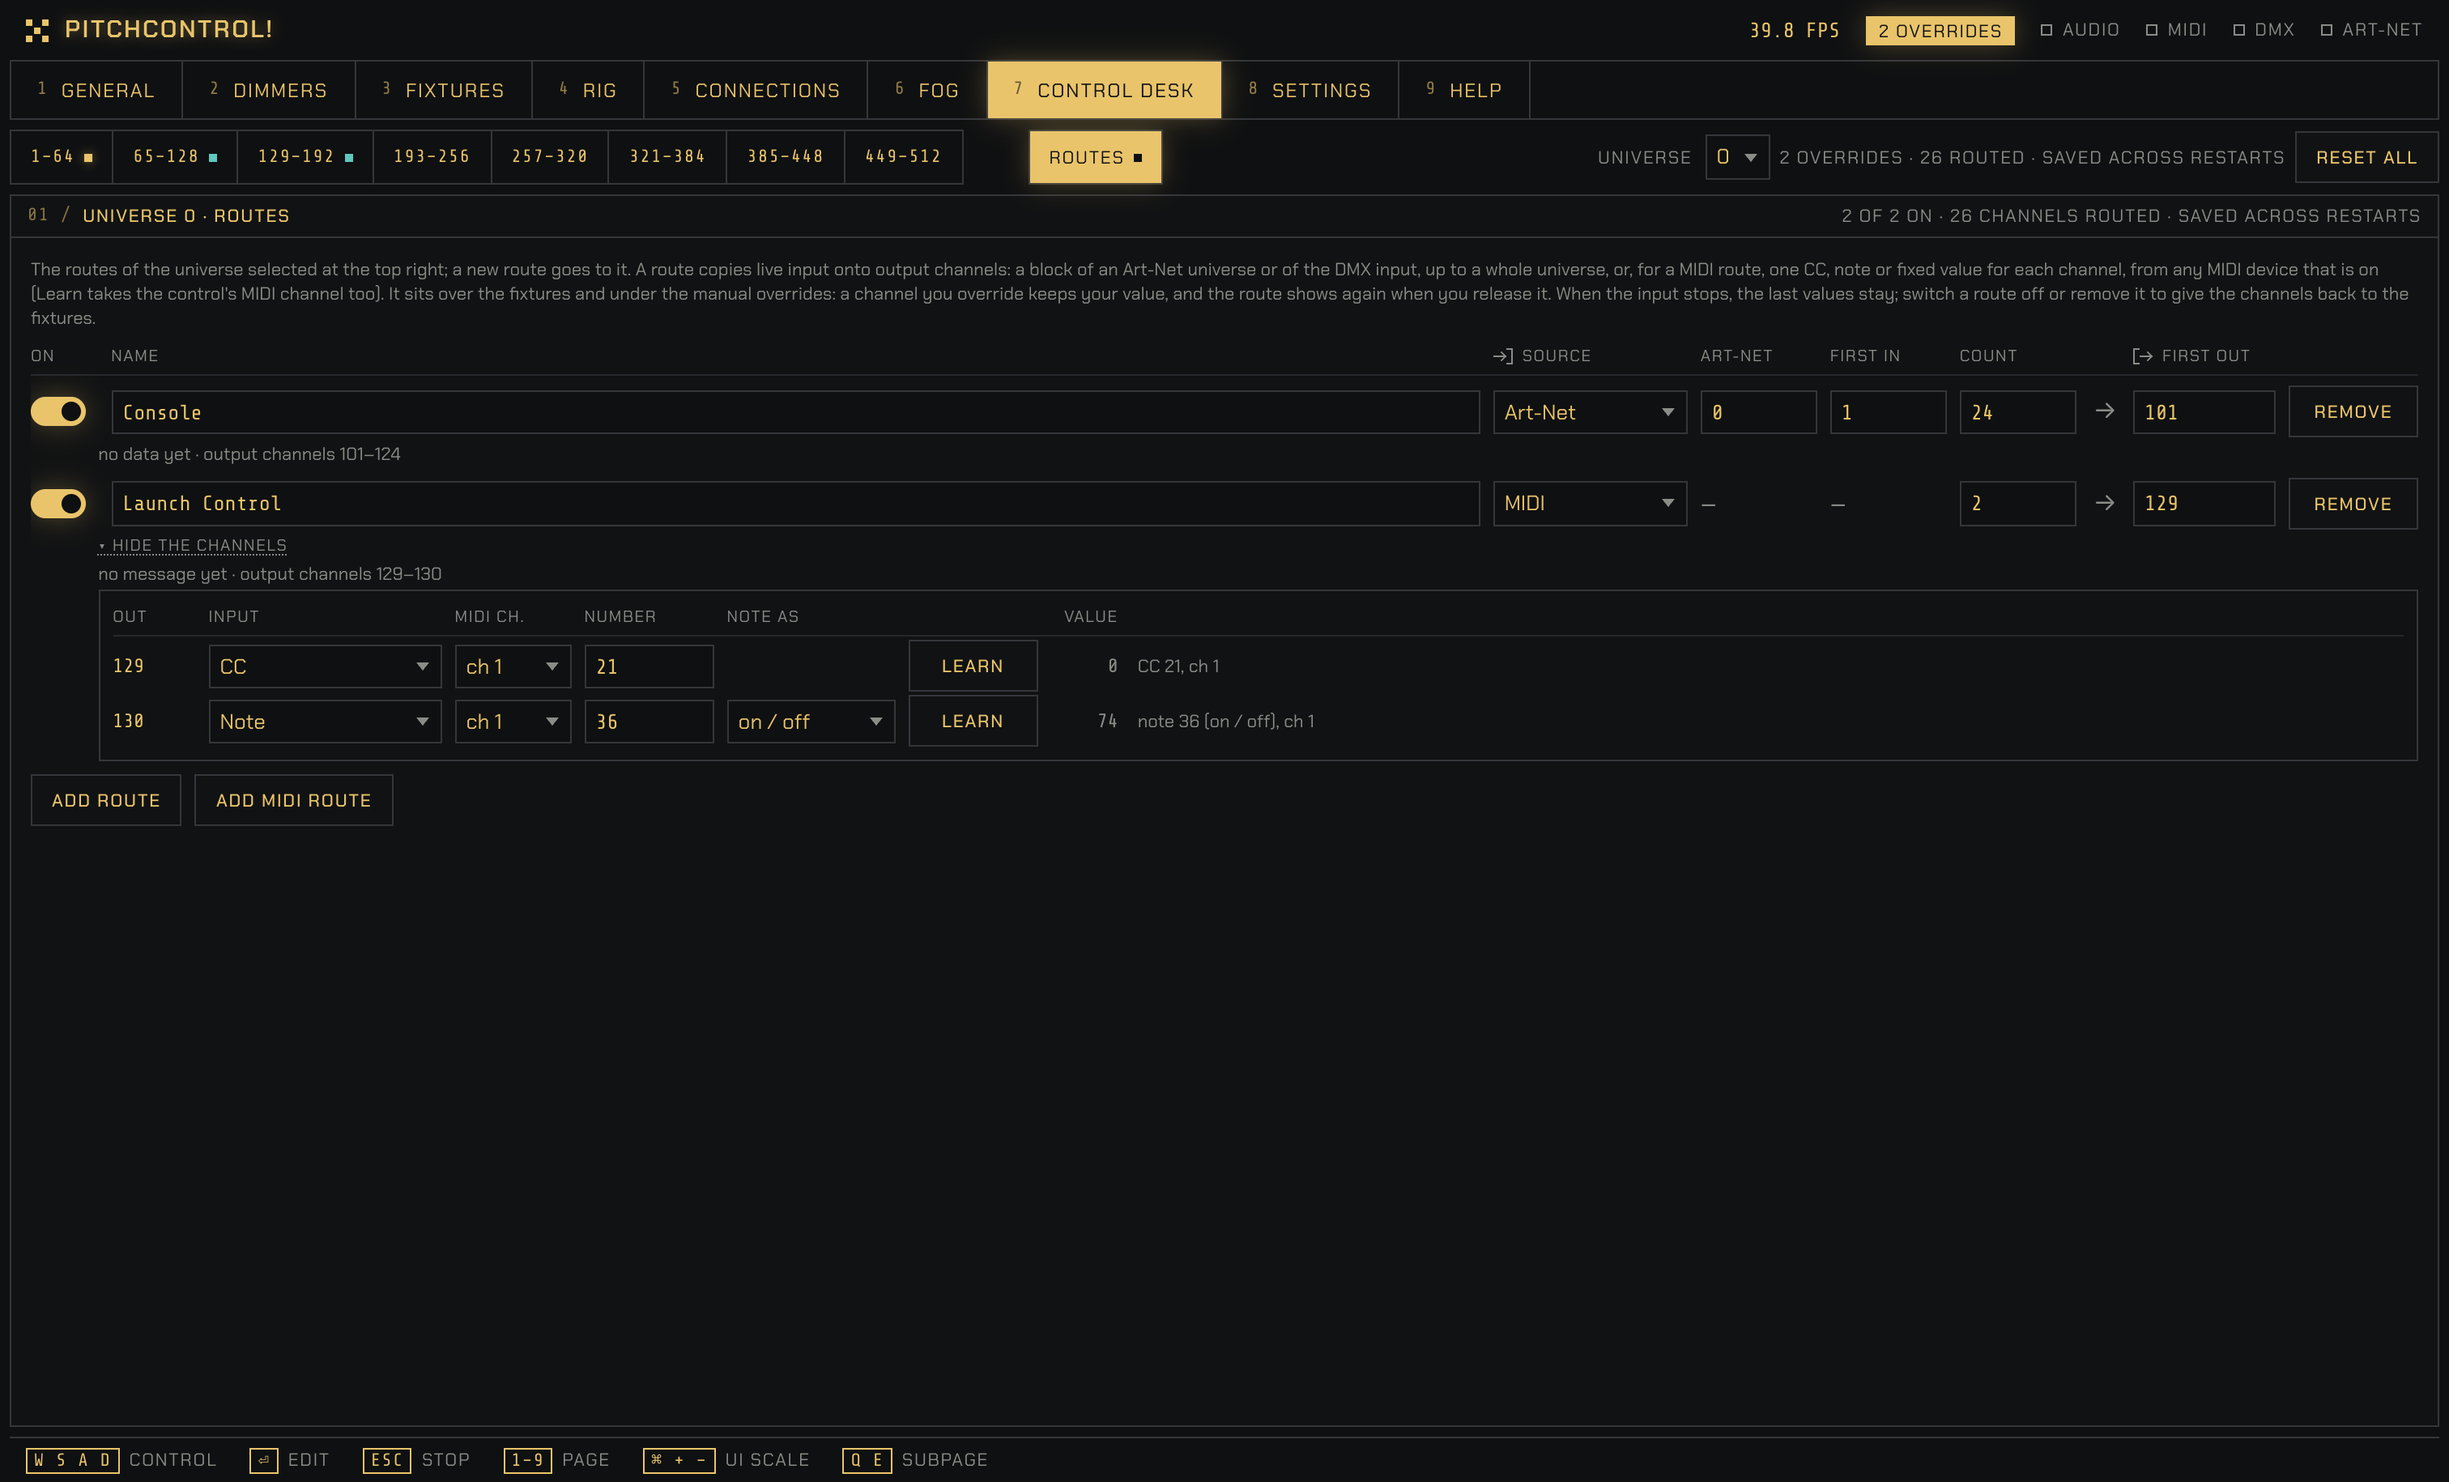
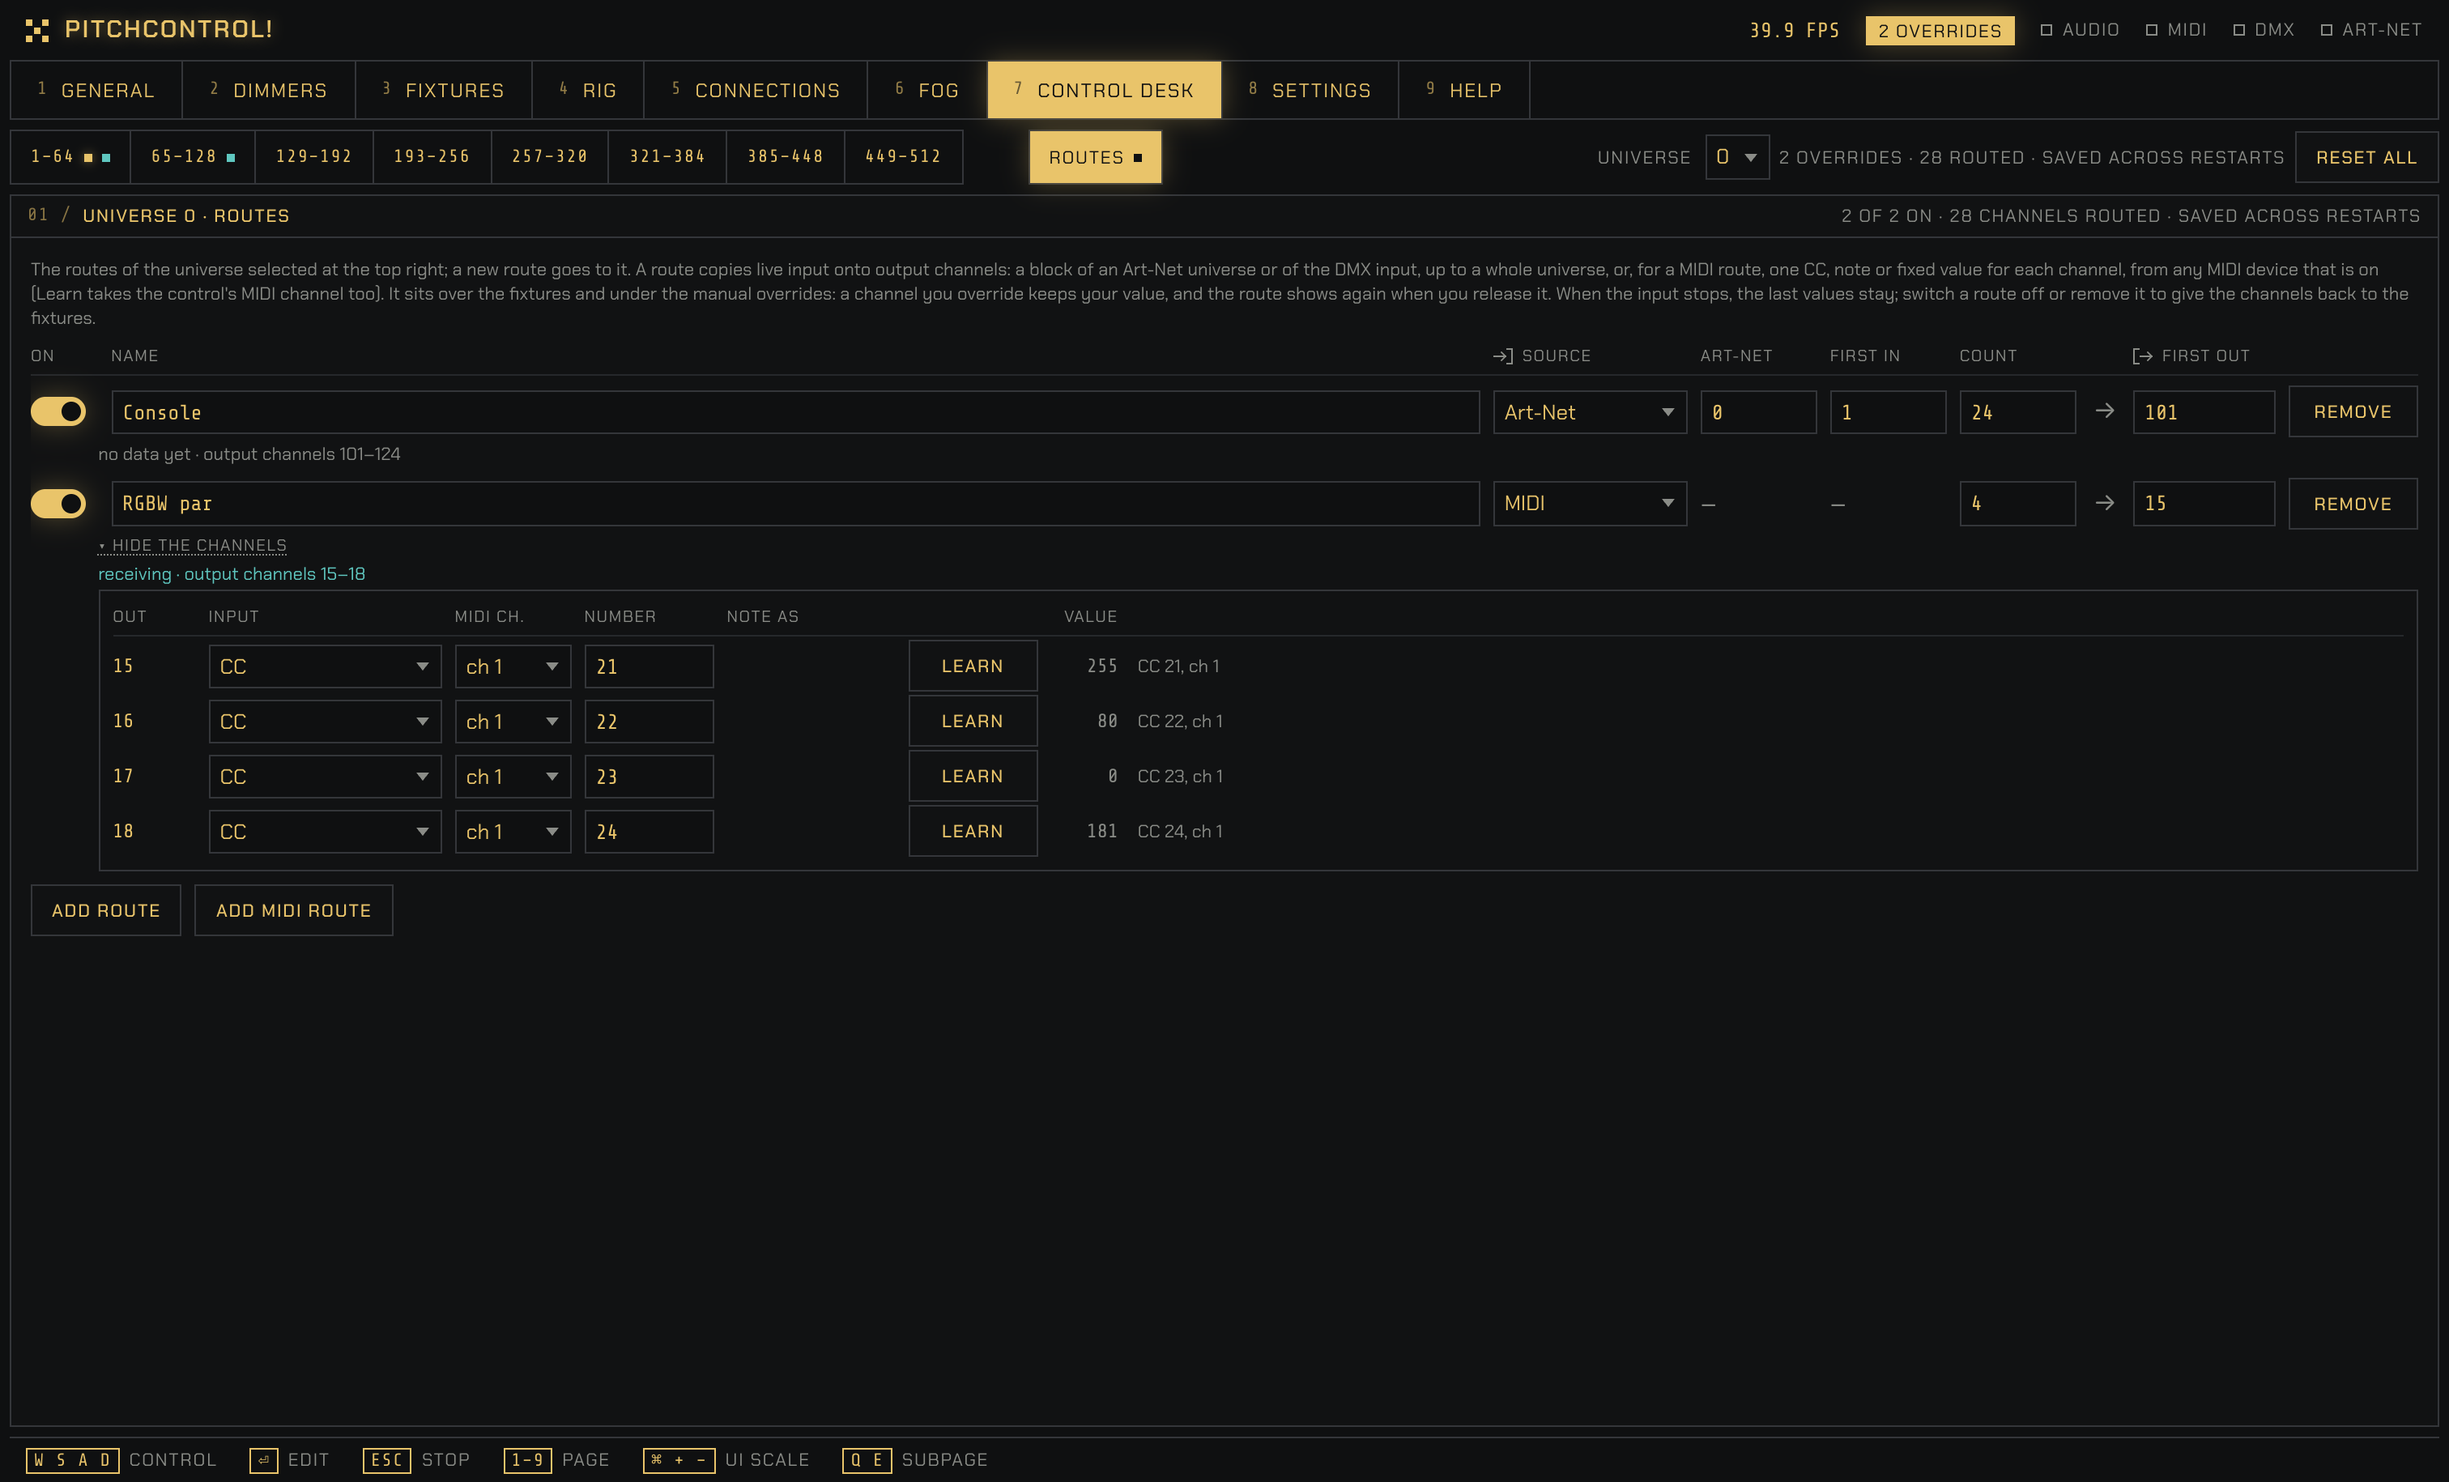
Screenshots: an RGBW MIDI route on channels 15-18, so the Control Desk's first subpage shows routed channels; the README shows every screenshot
The screenshot script stages the MIDI route as "RGBW par" (CC 21-24 onto 15-18, the free channels between Light B2
and the first LED strip) and keeps its faders alive, so the Routes subpage reads "receiving". The README adds the
Connections Audio, Serial and OSC tabs, the Control Desk's Routes subpage and the phone layout.

diff --git a/tools/screenshots.py b/tools/screenshots.py
@@ -11,8 +11,9 @@ The state shown:
 - this computer: one USB DMX interface that isn't plugged in and an Art-Net target, amber ink, UI
   scale 1; two Control Desk overrides and three named scenes, unless the copied data brings its own
   scenes (the fog machines are the rig's);
-- an OSC output to 127.0.0.1:7000 (Colors as RGBA) and two routes in universe 0 (an Art-Net universe onto channels
-  101 to 124, two MIDI controls onto 129 and 130), which the Routes subpage shows;
+- an OSC output to 127.0.0.1:7000 (Colors as RGBA) and two routes in universe 0, which the Routes subpage shows: an
+  Art-Net universe onto channels 101 to 124, and four MIDI faders (CC 21 to 24, moved to set values) onto 15 to 18,
+  an RGBW par on the free channels of the Control Desk's first subpage;
 - the macros at their defaults with Strobo (0.59) and Audio Reactivity (0.3) raised, so the pages
   move (more Audio Reactivity darkens the lights: the peaks map takes over the mask);
 - a synthetic 128 BPM techno loop feeding the audio analysis;
@@ -40,6 +41,7 @@ import time
 import urllib.request
 from pathlib import Path
 
+import mido
 import numpy as np
 
 ROOT = Path(__file__).resolve().parents[1]
@@ -97,6 +99,8 @@ def macro_values(**changes: float) -> dict[str, float]:
     return values | changes
 
 
+MIDI_ROUTE_CCS = {21: 127, 22: 40, 23: 0, 24: 90}  # the RGBW par's route: CC → value, a warm orange with some white
+
 # The machine's own audio devices must not end up on the website: the UI is shown with this one.
 DEVICES = [
     {
@@ -142,8 +146,9 @@ def stage(data_src: Path | None, data: Path, machine: Path) -> None:
         },
     )
     write_json(machine / "state" / "overrides.json", {"universes": {"0": {"9": 180, "10": 255}}})
-    # Routes subpage: an Art-Net universe onto output channels 101 to 124 and two MIDI controls onto 129 and 130 of
-    # universe 0, on the Control Desk's 3rd and 3rd/4th subpage (channels 1 to 64 are the ones control-desk.png shows)
+    # Routes subpage: an Art-Net universe onto output channels 101 to 124 of universe 0 (over the second LED strip, the
+    # Control Desk's 2nd subpage) and four MIDI faders onto 15 to 18, the free channels between Light B2 and the first
+    # LED strip, so that control-desk.png (channels 1 to 64) shows routed channels too
     write_json(
         machine / "state" / "routes.json",
         {
@@ -151,12 +156,12 @@ def stage(data_src: Path | None, data: Path, machine: Path) -> None:
                 {"id": "r1", "name": "Console", "kind": "artnet", "artnet_universe": 0, "first_input": 1, "count": 24, "universe": 0, "first_output": 101},
                 {
                     "id": "r2",
-                    "name": "Launch Control",
+                    "name": "RGBW par",
                     "kind": "midi",
-                    "count": 2,
+                    "count": 4,
                     "universe": 0,
-                    "first_output": 129,
-                    "channels": [{"type": "cc", "channel": 1, "number": 21}, {"type": "note", "channel": 1, "number": 36, "note_mode": "onoff"}],
+                    "first_output": 15,
+                    "channels": [{"type": "cc", "channel": 1, "number": n} for n in MIDI_ROUTE_CCS],
                 },
             ]
         },
@@ -331,6 +336,15 @@ def main() -> None:
         engine.outputs.restart_osc(store.settings.outputs)
         engine.midi_routes.open_inputs = lambda: 1
         stop = threading.Event()
+
+        def faders() -> None:  # the RGBW par's route: its faders, sent now and then so the route never reads "quiet"
+            while True:
+                for cc, value in MIDI_ROUTE_CCS.items():
+                    engine.midi_routes.handle("screenshots", mido.Message("control_change", channel=0, control=cc, value=value))
+                if stop.wait(5.0):
+                    return
+
+        threading.Thread(target=faders, name="midi", daemon=True).start()
         feeder = threading.Thread(target=feed, args=(engine, stop), name="audio", daemon=True)
         feeder.start()
         app = create_app(engine, static_dir=ROOT / "frontend" / "dist")
